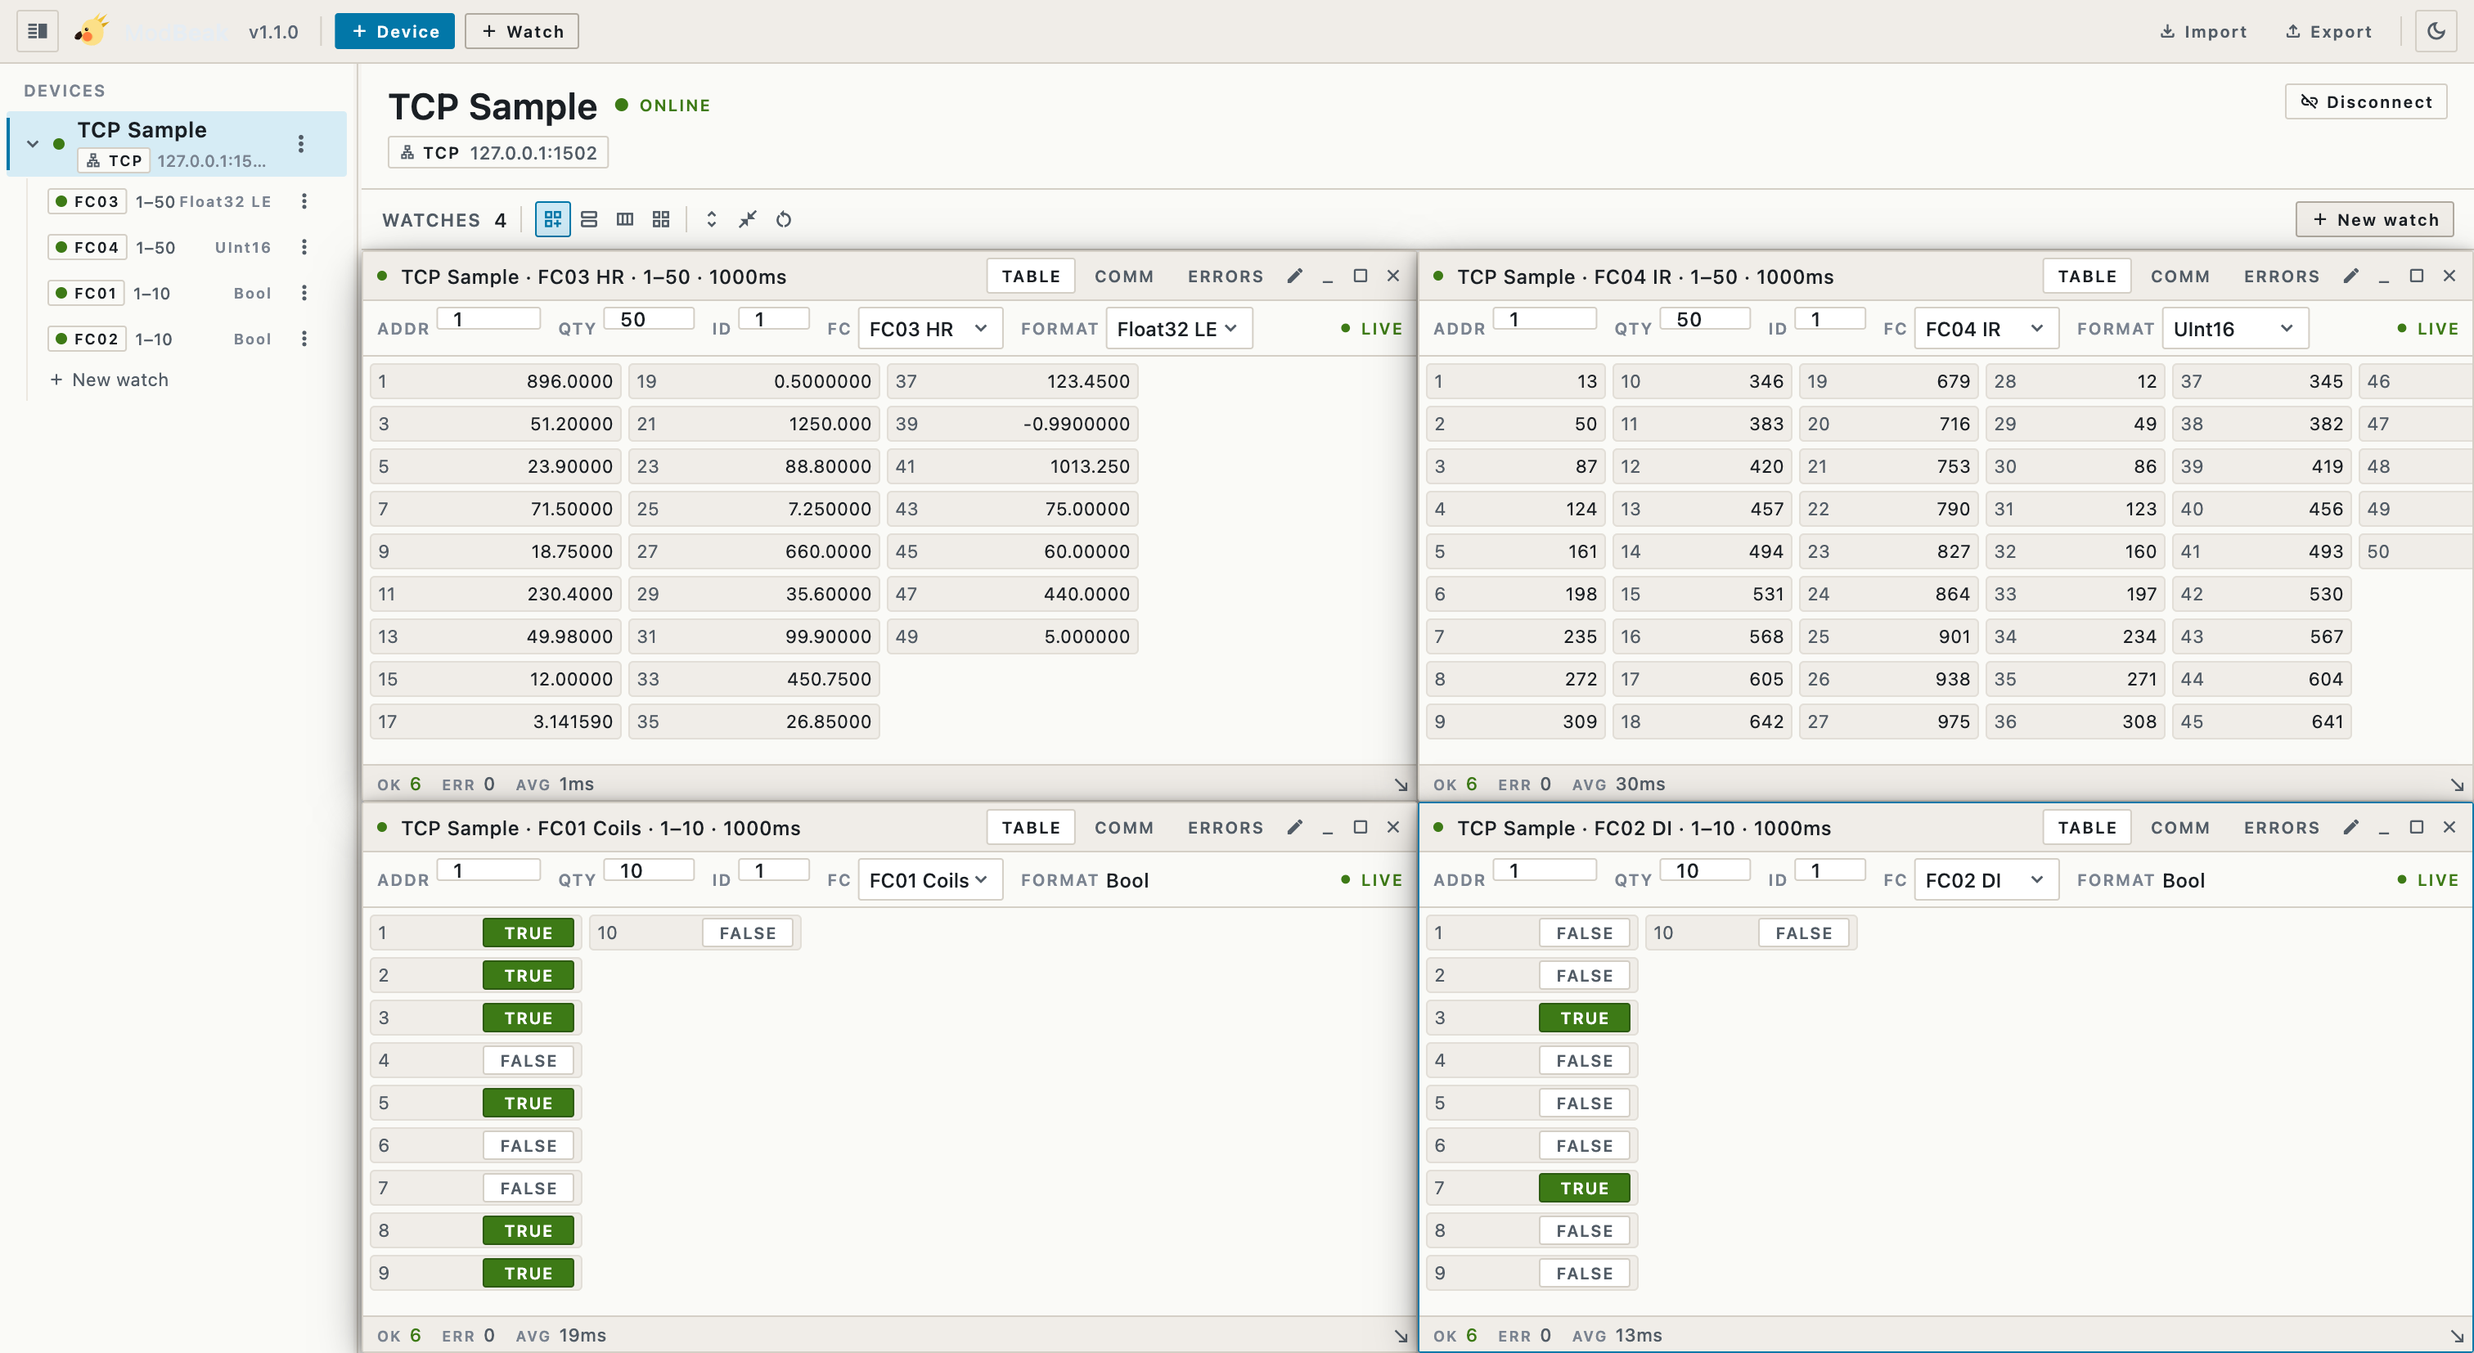
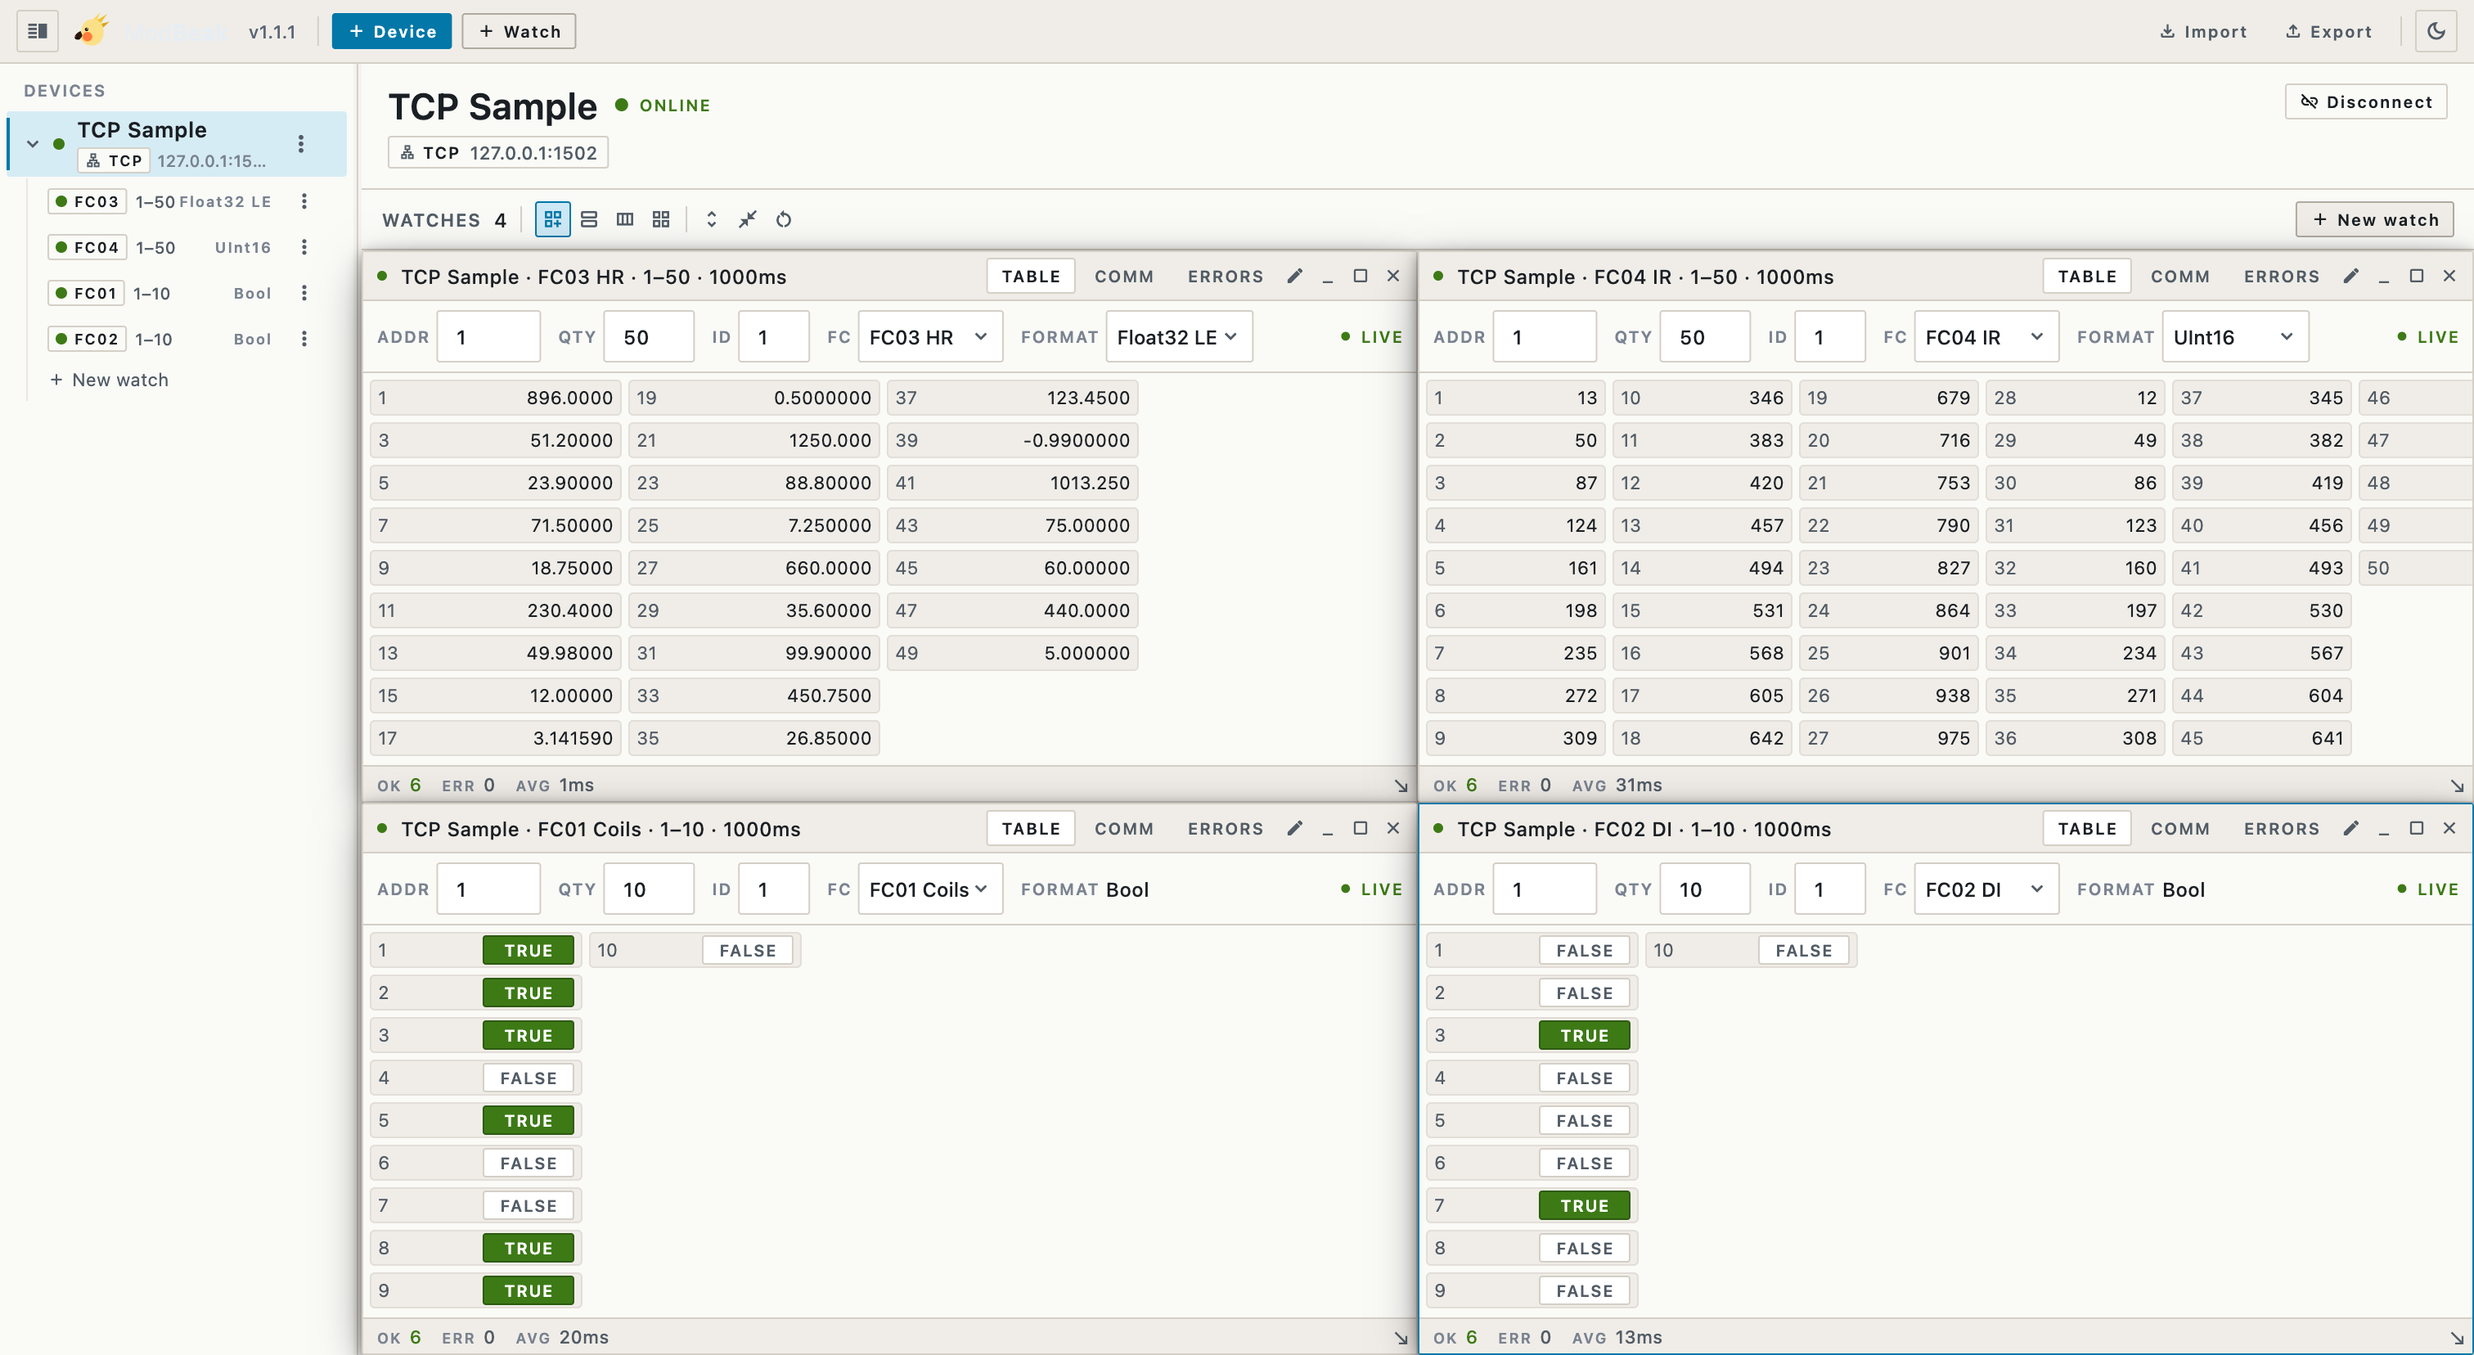
fix: handle forced disconnects + auto-reconnect; bigger params-bar fields
Connection handling: when the slave force-closes the socket (e.g. wrong
unit id) the transport noticed but nothing upstream did — polling kept
hammering the dead client, flooding the error log with one MbDisconnect
per watch per cycle, and the UI stayed "connected" until a manual
disconnect. MbClient now exposes a disconnected$ stream (TCP socket
drop, RTU serial reader death); DeviceHub stops the poll loop and drops
the dead client the moment it fires; the conn state flips to error with
a single "Connection lost" log entry. The device's autoReconnect flag —
previously UI-only, never implemented — now retries every 3 s silently
until the device is back (manual connect/disconnect supersedes it), and
polling resumes automatically on reconnect. RTU also fixes isConnected
staying true after the serial reader died.

Params bar: fields were still cramped and the text sat high, misaligned
with the labels — TextField clips when boxed below its intrinsic height.
Use expands:true to fill a 32px box with true vertical centering (bar
44px), Enter still commits (TextInputAction.done), digits-only input.

README screenshots retaken on v1.1.1. Bump version to 1.1.1.

diff --git a/lib/state/app_state.dart b/lib/state/app_state.dart
@@ -60,10 +60,76 @@ final deviceListProvider =
         DeviceListNotifier.new);
 
 class DeviceConnNotifier extends Notifier<Map<String, DeviceConnState>> {
+  /// Per-device token. Bumping it cancels any in-flight auto-reconnect
+  /// loop for that device (manual connect / disconnect supersede it).
+  final Map<String, int> _reconnectGen = {};
+
   @override
-  Map<String, DeviceConnState> build() => const {};
+  Map<String, DeviceConnState> build() {
+    final sub = ref
+        .read(deviceHubProvider)
+        .connectionLost$
+        .listen(_onConnectionLost);
+    ref.onDispose(sub.cancel);
+    return const {};
+  }
+
+  /// The hub already stopped polling and dropped the dead client — here we
+  /// sync the UI state, log ONE entry, and honour the device's
+  /// autoReconnect flag.
+  void _onConnectionLost(String id) {
+    _bumpGen(id);
+    state = {...state, id: DeviceConnState.error};
+    ref.read(errorLogProvider.notifier).add(ErrorLogEntry(
+          deviceId: id,
+          time: DateTime.now(),
+          message:
+              'Connection lost — closed by remote or network failure',
+          source: ErrorSource.connect,
+        ));
+    DeviceConfig? cfg;
+    for (final d in ref.read(deviceListProvider)) {
+      if (d.id == id) {
+        cfg = d;
+        break;
+      }
+    }
+    if (cfg != null && cfg.autoReconnect) {
+      unawaited(_reconnectLoop(id));
+    }
+  }
+
+  int _bumpGen(String id) =>
+      _reconnectGen[id] = (_reconnectGen[id] ?? 0) + 1;
+
+  /// Retry every 3 s until connected, superseded by a manual action, or the
+  /// device is removed. Failed attempts are silent — the single
+  /// "Connection lost" entry above already tells the story; one line per
+  /// retry would recreate the flood this fix removes.
+  Future<void> _reconnectLoop(String id) async {
+    final gen = _reconnectGen[id];
+    while (true) {
+      await Future<void>.delayed(const Duration(seconds: 3));
+      if (_reconnectGen[id] != gen) return;
+      if (!ref.read(deviceListProvider).any((d) => d.id == id)) return;
+      if (state[id] == DeviceConnState.connected) return;
+      try {
+        await ref.read(deviceHubProvider).connect(id);
+        if (_reconnectGen[id] != gen) {
+          // A manual action raced us mid-connect; let it win.
+          await ref.read(deviceHubProvider).disconnect(id);
+          return;
+        }
+        state = {...state, id: DeviceConnState.connected};
+        return;
+      } catch (_) {
+        // Still down — next round.
+      }
+    }
+  }
 
   Future<void> connect(String id) async {
+    _bumpGen(id);
     state = {...state, id: DeviceConnState.connecting};
     try {
       await ref.read(deviceHubProvider).connect(id);
@@ -80,6 +146,7 @@ class DeviceConnNotifier extends Notifier<Map<String, DeviceConnState>> {
   }
 
   Future<void> disconnect(String id) async {
+    _bumpGen(id);
     await ref.read(deviceHubProvider).disconnect(id);
     state = {...state, id: DeviceConnState.disconnected};
   }

diff --git a/test/core/modbus/mb_client_test.dart b/test/core/modbus/mb_client_test.dart
@@ -198,6 +198,57 @@ void main() {
   });
 
   group('MbClient — connection lifecycle', () {
+    test('peer-closed connection emits disconnected\$ once and drops state',
+        () async {
+      final server = await FakeModbusServer.start();
+      final client = MbClient.tcp(
+        host: '127.0.0.1',
+        port: server.port,
+        timeout: const Duration(seconds: 1),
+      );
+      await client.open();
+
+      final events = <void>[];
+      client.disconnected$.listen(events.add);
+
+      // Make sure the server has accepted us, then slam the door — the
+      // "wrong unit id → slave force-closes the socket" scenario.
+      await Future<void>.delayed(const Duration(milliseconds: 50));
+      await server.dropConnection();
+      await Future<void>.delayed(const Duration(milliseconds: 100));
+
+      expect(events.length, 1);
+      expect(client.isConnected, isFalse);
+      // Follow-up requests fail fast instead of hanging.
+      await expectLater(
+          client.readReg(1, 0, 1), throwsA(isA<MbDisconnect>()));
+
+      await client.dispose();
+      await server.close();
+    });
+
+    test('deliberate close() does not emit disconnected\$', () async {
+      final server = await FakeModbusServer.start();
+      final client = MbClient.tcp(
+        host: '127.0.0.1',
+        port: server.port,
+        timeout: const Duration(seconds: 1),
+      );
+      await client.open();
+
+      final events = <void>[];
+      client.disconnected$.listen(events.add);
+
+      await Future<void>.delayed(const Duration(milliseconds: 50));
+      await client.close();
+      await Future<void>.delayed(const Duration(milliseconds: 100));
+
+      expect(events, isEmpty);
+
+      await client.dispose();
+      await server.close();
+    });
+
     test('connecting to closed port throws MbDisconnect', () async {
       // Bind then close to grab a known-unused port.
       final probe = await FakeModbusServer.start();

diff --git a/lib/core/runtime/device_hub.dart b/lib/core/runtime/device_hub.dart
@@ -37,6 +37,15 @@ class DeviceHub {
   Stream<TaggedRawPacket> get rawPackets$ => _allRawCtrl.stream
       .map((p) => p as TaggedRawPacket);
 
+  final StreamController<String> _lostCtrl =
+      StreamController<String>.broadcast();
+
+  /// Emits a device id whenever that device's transport dropped
+  /// unexpectedly. By the time the event fires the hub has already stopped
+  /// the device's poll loop and disposed the dead client — subscribers only
+  /// need to update UI state / decide whether to auto-reconnect.
+  Stream<String> get connectionLost$ => _lostCtrl.stream;
+
   /// All devices currently registered.
   Iterable<DeviceState> get devices => _devices.values.map((e) => e.state);
 
@@ -109,12 +118,29 @@ class DeviceHub {
       await c.open();
       entry.client = c;
       entry.state.conn = DeviceConnState.connected;
+      c.disconnected$.listen((_) => _onConnectionLost(deviceId, c));
     } catch (e) {
       await c.dispose();
       entry.state.conn = DeviceConnState.error;
       entry.state.lastError = e.toString();
       rethrow;
     }
+  }
+
+  /// Transport died under us (peer closed the socket, network drop, serial
+  /// reader error). Stop polling immediately so the error log doesn't fill
+  /// with one MbDisconnect per watch per cycle, and flip the state so the
+  /// UI shows the device as down.
+  void _onConnectionLost(String deviceId, MbClient c) {
+    final entry = _devices[deviceId];
+    // Stale event — device removed or already replaced by a reconnect.
+    if (entry == null || !identical(entry.client, c)) return;
+    _polls.remove(deviceId)?.stop();
+    entry.client = null;
+    unawaited(c.dispose());
+    entry.state.conn = DeviceConnState.error;
+    entry.state.lastError = 'Connection lost';
+    _lostCtrl.add(deviceId);
   }
 
   Future<void> disconnect(String deviceId) async {

diff --git a/lib/core/modbus/rtu_mb_client.dart b/lib/core/modbus/rtu_mb_client.dart
@@ -57,6 +57,11 @@ class RtuMbClient implements MbClient {
   @override
   Stream<RawPacket> get rawPackets$ => _rawCtrl.stream;
 
+  final StreamController<void> _discCtrl = StreamController<void>.broadcast();
+
+  @override
+  Stream<void> get disconnected$ => _discCtrl.stream;
+
   RtuMbClient({
     required this.serialPortName,
     this.baudRate = 9600,
@@ -104,8 +109,8 @@ class RtuMbClient implements MbClient {
     _reader = SerialPortReader(p);
     _readerSub = _reader!.stream.listen(
       _onData,
-      onError: (Object _, [StackTrace? stack]) => _shutdown(),
-      onDone: _shutdown,
+      onError: (Object _, [StackTrace? stack]) => _shutdown(lost: true),
+      onDone: () => _shutdown(lost: true),
       cancelOnError: true,
     );
   }
@@ -130,15 +135,34 @@ class RtuMbClient implements MbClient {
   Future<void> dispose() async {
     await close();
     await _rawCtrl.close();
+    await _discCtrl.close();
   }
 
-  void _shutdown() {
+  void _shutdown({bool lost = false}) {
     _expectedLen = 0;
     _rxBuf = BytesBuilder(copy: false);
     final c = _pending;
     _pending = null;
     if (c != null && !c.isCompleted) {
       c.completeError(const MbDisconnect());
+    }
+    if (lost) {
+      // Reader stream died (cable pulled, driver error) — tear the port
+      // down so isConnected goes false, then notify. `p != null` makes
+      // this one-shot if the stream fires both onError and onDone.
+      final p = _port;
+      _port = null;
+      _readerSub?.cancel();
+      _readerSub = null;
+      _reader?.close();
+      _reader = null;
+      if (p != null) {
+        try {
+          if (p.isOpen) p.close();
+          p.dispose();
+        } catch (_) {}
+        if (!_discCtrl.isClosed) _discCtrl.add(null);
+      }
     }
   }
 

diff --git a/lib/ui/watch_window/watch_pane.dart b/lib/ui/watch_window/watch_pane.dart
@@ -1,4 +1,5 @@
 import 'package:flutter/material.dart';
+import 'package:flutter/services.dart';
 import 'package:flutter_riverpod/flutter_riverpod.dart';
 
 import '../../core/codec/format_codec.dart';
@@ -559,7 +560,7 @@ class _ParamsBarState extends ConsumerState<_ParamsBar> {
   Widget build(BuildContext context) {
     final format = sanitizeFormat(_spec.format, _spec.functionCode);
     return Container(
-      height: 34,
+      height: 44,
       decoration: BoxDecoration(
         color: AppColors.bg2,
         border: Border(
@@ -676,16 +677,21 @@ class _ParamsBarState extends ConsumerState<_ParamsBar> {
   }) {
     return SizedBox(
       width: width,
-      height: 26,
+      height: 32,
       child: TextField(
         controller: ctrl,
         focusNode: focus,
+        expands: true,
+        maxLines: null,
+        minLines: null,
+        textInputAction: TextInputAction.done,
+        inputFormatters: [FilteringTextInputFormatter.digitsOnly],
         style: AppType.mono.copyWith(color: AppColors.text),
         textAlignVertical: TextAlignVertical.center,
         decoration: InputDecoration(
           isDense: true,
           contentPadding:
-              const EdgeInsets.symmetric(horizontal: 6, vertical: 0),
+              const EdgeInsets.symmetric(horizontal: 8, vertical: 0),
           filled: true,
           fillColor: AppColors.bg1,
           border: OutlineInputBorder(
@@ -712,7 +718,7 @@ class _ParamsBarState extends ConsumerState<_ParamsBar> {
     required ValueChanged<T> onChanged,
   }) {
     return Container(
-      height: 26,
+      height: 32,
       decoration: BoxDecoration(
         color: AppColors.bg1,
         border: Border.all(color: AppColors.border),

diff --git a/lib/core/modbus/tcp_mb_client.dart b/lib/core/modbus/tcp_mb_client.dart
@@ -43,6 +43,11 @@ class TcpMbClient implements MbClient {
   @override
   Stream<RawPacket> get rawPackets$ => _rawCtrl.stream;
 
+  final StreamController<void> _discCtrl = StreamController<void>.broadcast();
+
+  @override
+  Stream<void> get disconnected$ => _discCtrl.stream;
+
   TcpMbClient({
     required this.host,
     required this.port,
@@ -64,8 +69,8 @@ class TcpMbClient implements MbClient {
       final s = await Socket.connect(host, port, timeout: timeout);
       s.listen(
         _onData,
-        onError: (Object _, [StackTrace? stack]) => _shutdown(),
-        onDone: _shutdown,
+        onError: (Object _, [StackTrace? stack]) => _shutdown(lost: true),
+        onDone: () => _shutdown(lost: true),
         cancelOnError: true,
       );
       _socket = s;
@@ -92,9 +97,10 @@ class TcpMbClient implements MbClient {
   Future<void> dispose() async {
     await close();
     await _rawCtrl.close();
+    await _discCtrl.close();
   }
 
-  void _shutdown() {
+  void _shutdown({bool lost = false}) {
     final s = _socket;
     _socket = null;
     s?.destroy();
@@ -103,6 +109,11 @@ class TcpMbClient implements MbClient {
     }
     _pending.clear();
     _rxBuffer = Uint8List(0);
+    // `s != null` makes this one-shot: the destroy() above re-triggers
+    // onDone, but by then the socket field is already cleared.
+    if (lost && s != null && !_discCtrl.isClosed) {
+      _discCtrl.add(null);
+    }
   }
 
   // ─── Public API: same names as Go mbclient ──────────────────────────────

diff --git a/lib/core/modbus/mb_client.dart b/lib/core/modbus/mb_client.dart
@@ -17,6 +17,13 @@ abstract class MbClient {
   /// Emits every TX/RX frame, in order, for the raw packet panel.
   Stream<RawPacket> get rawPackets$;
 
+  /// Fires once when the transport drops unexpectedly — the peer closed the
+  /// socket, the network failed, or the serial reader died. A deliberate
+  /// [close] / [dispose] never emits. Listeners (the DeviceHub) use this to
+  /// stop polling and surface the disconnected state instead of letting
+  /// every subsequent request fail with [MbDisconnect].
+  Stream<void> get disconnected$;
+
   bool get isConnected;
 
   Future<void> open();
